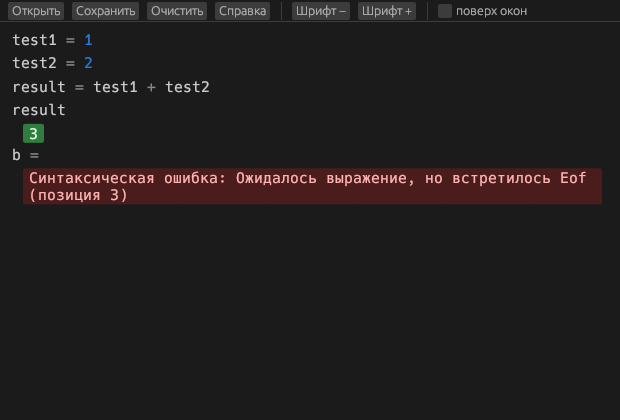
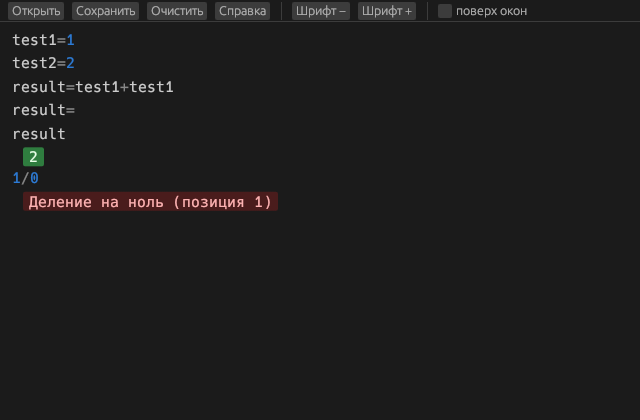
fix(notepad): незаконченная строка молчит, красным — только ошибки выполнения
Синтаксическая ошибка / недописанная строка больше не показывает красный бокс
(как оригинал — просто нет результата). Красным показываются лишь ошибки
выполнения разобранного выражения (деление на ноль, неизвестная переменная).

Changed region(s): [[0.0, 0.2476, 0.9806, 0.5262], [0.0306, 0.0, 0.8581, 0.2167]]

diff --git a/calc-notepad/src/document.rs b/calc-notepad/src/document.rs
@@ -1,7 +1,9 @@
 //! Построчное вычисление документа (как оригинал «Чиста калькулятор»):
 //! каждая строка разбирается и считается независимо, состояние переменных
 //! накапливается между строками. Присваивания и определения результата не
-//! показывают — только чистые выражения.
+//! показывают — только чистые выражения. Незаконченная/синтаксически неверная
+//! строка не показывает ничего (спокойно, как оригинал); красным — лишь
+//! ошибки выполнения уже разобранного выражения (деление на ноль и т.п.).
 
 use calc_core::ast::{Expr, Stmt};
 use calc_core::{lexer, parser, Evaluator};
@@ -32,27 +34,25 @@ impl Document {
             let n = i + 1;
             let parsed =
                 lexer::tokenize(line).and_then(|t| parser::Parser::new(t).parse_program());
-            match parsed {
+            let stmts = match parsed {
+                // Синтаксическая ошибка / незаконченная строка — молчим (как оригинал).
+                Err(_) => continue,
+                Ok(stmts) => stmts,
+            };
+            let show = shows_result(&stmts);
+            match ev.run(&stmts) {
+                Ok(v) => {
+                    if show {
+                        results.insert(n, v.to_string());
+                    }
+                }
+                // Ошибка выполнения разобранного выражения — показываем красным.
                 Err(e) => {
                     results.insert(n, e.to_string());
                     errors.insert(n);
                 }
-                Ok(stmts) => {
-                    let show = shows_result(&stmts);
-                    match ev.run(&stmts) {
-                        Ok(v) => {
-                            if show {
-                                results.insert(n, v.to_string());
-                            }
-                        }
-                        Err(e) => {
-                            results.insert(n, e.to_string());
-                            errors.insert(n);
-                        }
-                    }
-                    output.push_str(&ev.take_output());
-                }
             }
+            output.push_str(&ev.take_output());
         }
 
         Document { results, errors, output }
@@ -73,36 +73,42 @@ mod tests {
     #[test]
     fn assignments_are_silent_only_expressions_show() {
         let doc = Document::evaluate("цена = 1990\nштук = 12\nцена * штук\nIntToRoman(2024)");
-        assert_eq!(doc.result_for_line(1), None); // присваивание — молчит
-        assert_eq!(doc.result_for_line(2), None); // присваивание — молчит
-        assert_eq!(doc.result_for_line(3).as_deref(), Some("23880")); // выражение
-        assert_eq!(doc.result_for_line(4).as_deref(), Some("MMXXIV")); // выражение
+        assert_eq!(doc.result_for_line(1), None);
+        assert_eq!(doc.result_for_line(2), None);
+        assert_eq!(doc.result_for_line(3).as_deref(), Some("23880"));
+        assert_eq!(doc.result_for_line(4).as_deref(), Some("MMXXIV"));
     }
 
     #[test]
     fn state_accumulates_across_lines() {
         let doc = Document::evaluate("test1 = 1\ntest2 = 2\nresult = test1 + test2\nresult");
-        assert_eq!(doc.result_for_line(1), None);
-        assert_eq!(doc.result_for_line(3), None); // тоже присваивание
-        assert_eq!(doc.result_for_line(4).as_deref(), Some("3")); // голое выражение
+        assert_eq!(doc.result_for_line(3), None);
+        assert_eq!(doc.result_for_line(4).as_deref(), Some("3"));
     }
 
     #[test]
-    fn broken_line_does_not_blank_the_others() {
-        // Последняя строка — незаконченное присваивание (синтаксическая ошибка),
-        // но предыдущие строки должны посчитаться (как в оригинале).
+    fn incomplete_line_is_silent_not_error() {
+        // Незаконченное присваивание — ни результата, ни ошибки; остальные строки считаются.
         let doc = Document::evaluate("a = 10\na + 5\nb =");
-        assert_eq!(doc.result_for_line(2).as_deref(), Some("15")); // не обнулилось
-        assert!(doc.is_error_line(3)); // ошибка только на своей строке
-        assert!(!doc.is_error_line(2));
+        assert_eq!(doc.result_for_line(2).as_deref(), Some("15"));
+        assert_eq!(doc.result_for_line(3), None);
+        assert!(!doc.is_error_line(3));
     }
 
     #[test]
-    fn error_line_has_error_text_and_is_flagged() {
+    fn runtime_error_is_shown_and_flagged() {
+        // Деление на ноль — разобранное выражение, ошибка выполнения → показываем.
         let doc = Document::evaluate("1/0");
         let r = doc.result_for_line(1).unwrap();
         assert!(r.contains("ноль"));
         assert!(doc.is_error_line(1));
+    }
+
+    #[test]
+    fn unknown_variable_is_shown() {
+        let doc = Document::evaluate("нету");
+        assert!(doc.is_error_line(1));
+        assert!(doc.result_for_line(1).unwrap().contains("Неизвестная переменная"));
     }
 
     #[test]
